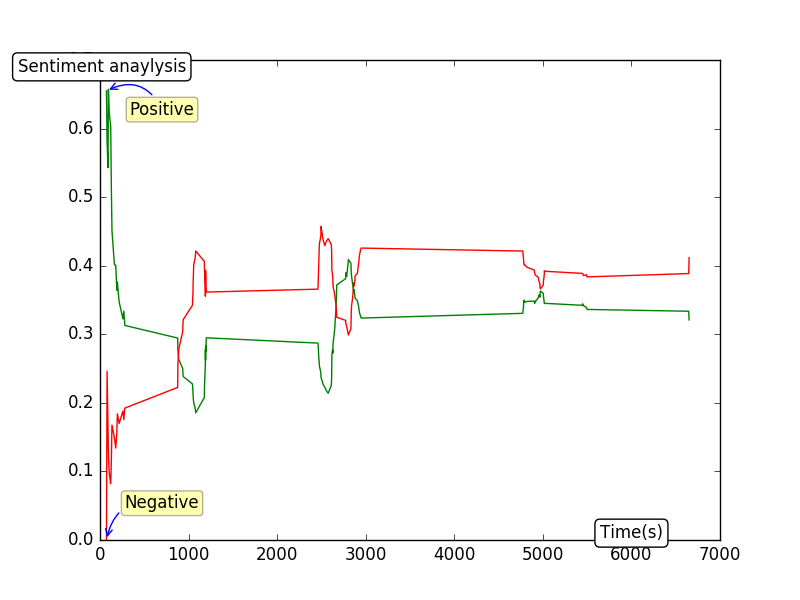
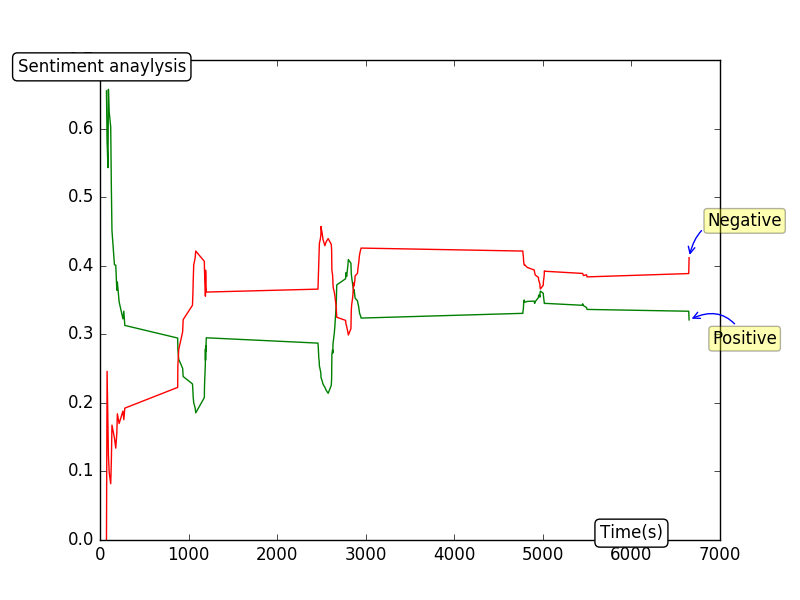
update display graph

diff --git a/facebookComments.py b/facebookComments.py
@@ -6,7 +6,7 @@ from nltk.sentiment.vader import SentimentIntensityAnalyzer
 #  here is token which you get from Facebook Graph APIs
[1 lines of base64/hex data omitted]
 graph = facebook.GraphAPI(token)
-post_ids = ['4692106117913_10201248719057316'] # here is a array of post_ids
+post_ids = ['228735667216_10153346097452217', '4692106117913_10201248719057316'] # here is a array of post_ids
 posts = graph.get_objects(ids=post_ids)
 
 # Function get all coments from id-post
@@ -68,12 +68,13 @@ for post_id in post_ids:
 
     posYannotate = 20 if posY[0] < 0.5 else -20
     negYannotate = 20 if negY[0] < 0.5 else -20
-    plt.annotate('Positive', xy=(timeX[0], posY[0]), xytext=(40,posYannotate),
+    index = len(timeX)- 1
+    plt.annotate('Positive', xy=(timeX[index], posY[index]), xytext=(40,posYannotate),
                     textcoords='offset points', ha='center', va='bottom',
                     bbox=dict(boxstyle='round,pad=0.2', fc='yellow', alpha=0.3),
                     arrowprops=dict(arrowstyle='->', connectionstyle='arc3,rad=0.5',
                                     color='blue'))
-    plt.annotate('Negative', xy=(timeX[0], negY[0]), xytext=(40,negYannotate),
+    plt.annotate('Negative', xy=(timeX[index], negY[index]), xytext=(40,negYannotate),
                     textcoords='offset points', ha='center', va='bottom',
                     bbox=dict(boxstyle='round,pad=0.2', fc='yellow', alpha=0.3),
                     arrowprops=dict(arrowstyle='->', connectionstyle='arc3,rad=0.5',
